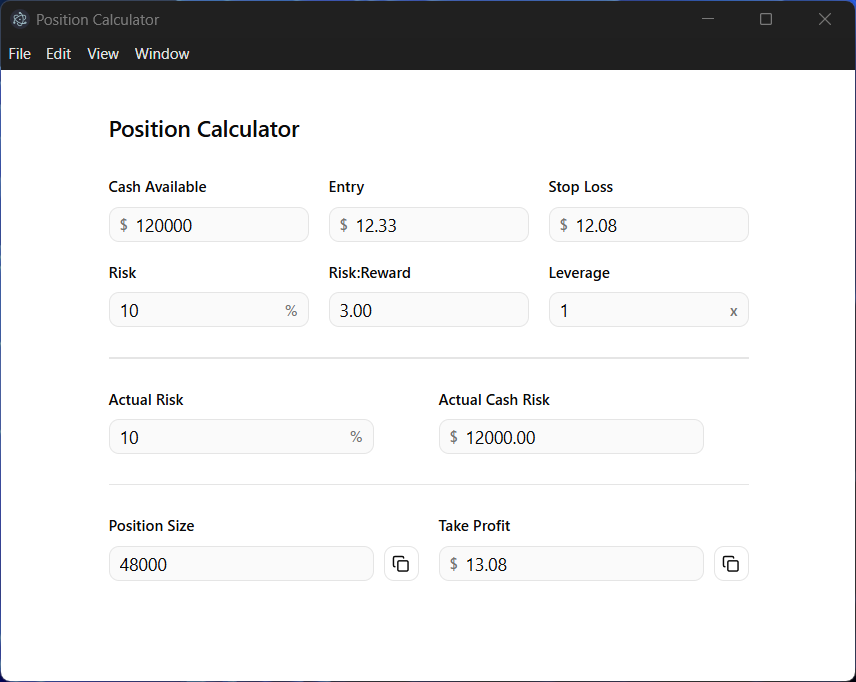
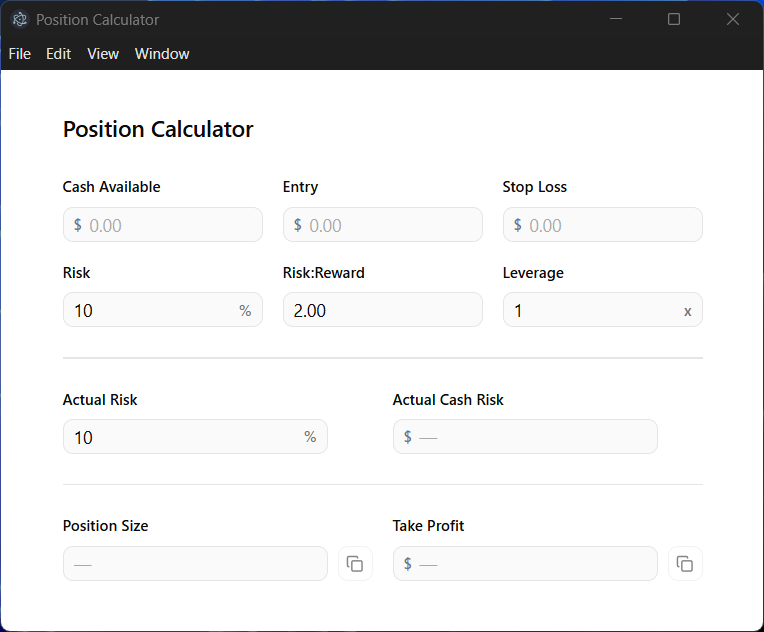
Prep for Tagging as 1.3.0
- Updated the CHANGELOG
- Took a new screenshot
- Updated the README (adjusted the width of the screenshot)
- Updated the version number in `package.json`

Squashed commit of the following:

commit d239c3b60e257463cf1924deb65c0635716b5a00
Author: Jasel <[email redacted]>
Date:   Sat Jun 20 09:57:25 2026 -0400

    Set initial window size and disable Dev Tools auto-open

    Window dimensions are now 780 x 640 (width x height), defined as named
    constants and divided by the primary display scaleFactor at creation time
    to account for Windows DPI scaling. Dev Tools no longer open on launch;
    they remain accessible via the View menu or Ctrl+Shift+I.

commit 35055a5c1805974d4d22cf4143e07d9a49d4f90b
Author: Jasel <[email redacted]>
Date:   Sat Jun 20 09:23:47 2026 -0400

    Add pre-publish check script to guard against version mismatch

    Adds scripts/pre-publish-check.mjs, wired as a prepublish hook, that
    confirms the master branch is checked out and that the most recent git
    tag matches package.json's version field before a publish proceeds. Any
    failing condition is reported and the user is prompted to continue
    (default: No).

commit 41f2f7f99339952ccab74cf3112fb5b8e44fc9f9
Merge: 4c37676 90a356a
Author: Jasel <[email redacted]>
Date:   Sat Jun 20 09:21:01 2026 -0400

    Merge branch 'master' into develop

diff --git a/src/main.js b/src/main.js
@@ -1,6 +1,9 @@
-const { app, BrowserWindow } = require('electron');
+const { app, BrowserWindow, screen } = require('electron');
 const { updateElectronApp } = require('update-electron-app');
 const path = require('node:path');
+
+const windowWidth = 780;
+const windowHeight = 640;
 
 // Only check for updates in a packaged build; in development there's no
 // published release to update from, and the updater would otherwise abort.
@@ -15,9 +18,10 @@ if (require('electron-squirrel-startup')) {
 
 const createWindow = () => {
     // Create the browser window.
+    const { scaleFactor } = screen.getPrimaryDisplay();
     const mainWindow = new BrowserWindow({
-        width: 800,
-        height: 600,
+        width: Math.round(windowWidth / scaleFactor),
+        height: Math.round(windowHeight / scaleFactor),
         webPreferences: {
             preload: MAIN_WINDOW_PRELOAD_WEBPACK_ENTRY
         }
@@ -25,9 +29,6 @@ const createWindow = () => {
 
     // and load the index.html of the app.
     mainWindow.loadURL(MAIN_WINDOW_WEBPACK_ENTRY);
-
-    // Open the DevTools.
-    mainWindow.webContents.openDevTools();
 };
 
 // This method will be called when Electron has finished

diff --git a/CHANGELOG.md b/CHANGELOG.md
@@ -5,6 +5,15 @@ All notable changes to this project will be documented in this file.
 The format is based on [Keep a Changelog](https://keepachangelog.com/en/1.1.0/),
 and this project adheres to [Semantic Versioning](https://semver.org/spec/v2.0.0.html).
 
+## [1.3.0] - 2026-06-20
+
+### Added
+- `scripts/pre-publish-check.mjs` — a Node script run automatically as a `prepublish` hook that verifies the `master` branch is checked out and that the most recent git tag matches the `version` field in `package.json`. If either condition fails it reports the issue(s) and prompts whether to proceed (default: No).
+
+### Changed
+- Initial window size set to 780 × 640 (width × height). Size is divided by the primary display's `scaleFactor` at creation time so the window renders at the intended dimensions regardless of Windows DPI scaling.
+- Dev Tools no longer opens automatically on launch; it remains accessible via **View → Toggle Developer Tools** or `Ctrl+Shift+I`.
+
 ## [1.2.0] - 2026-06-19
 
 ### Added

diff --git a/README.md b/README.md
@@ -6,7 +6,7 @@ take-profit, and what you're actually risking once leverage is applied — with
 inline validation and one-click copy of the results.
 
 <p align="center">
-  <img src="docs/screenshot.png" alt="Position Calculator app window" width="428" />
+  <img src="docs/screenshot.png" alt="Position Calculator app window" width="400" />
 </p>
 
 > **Disclaimer:** This is a personal utility for calculating position sizes. It